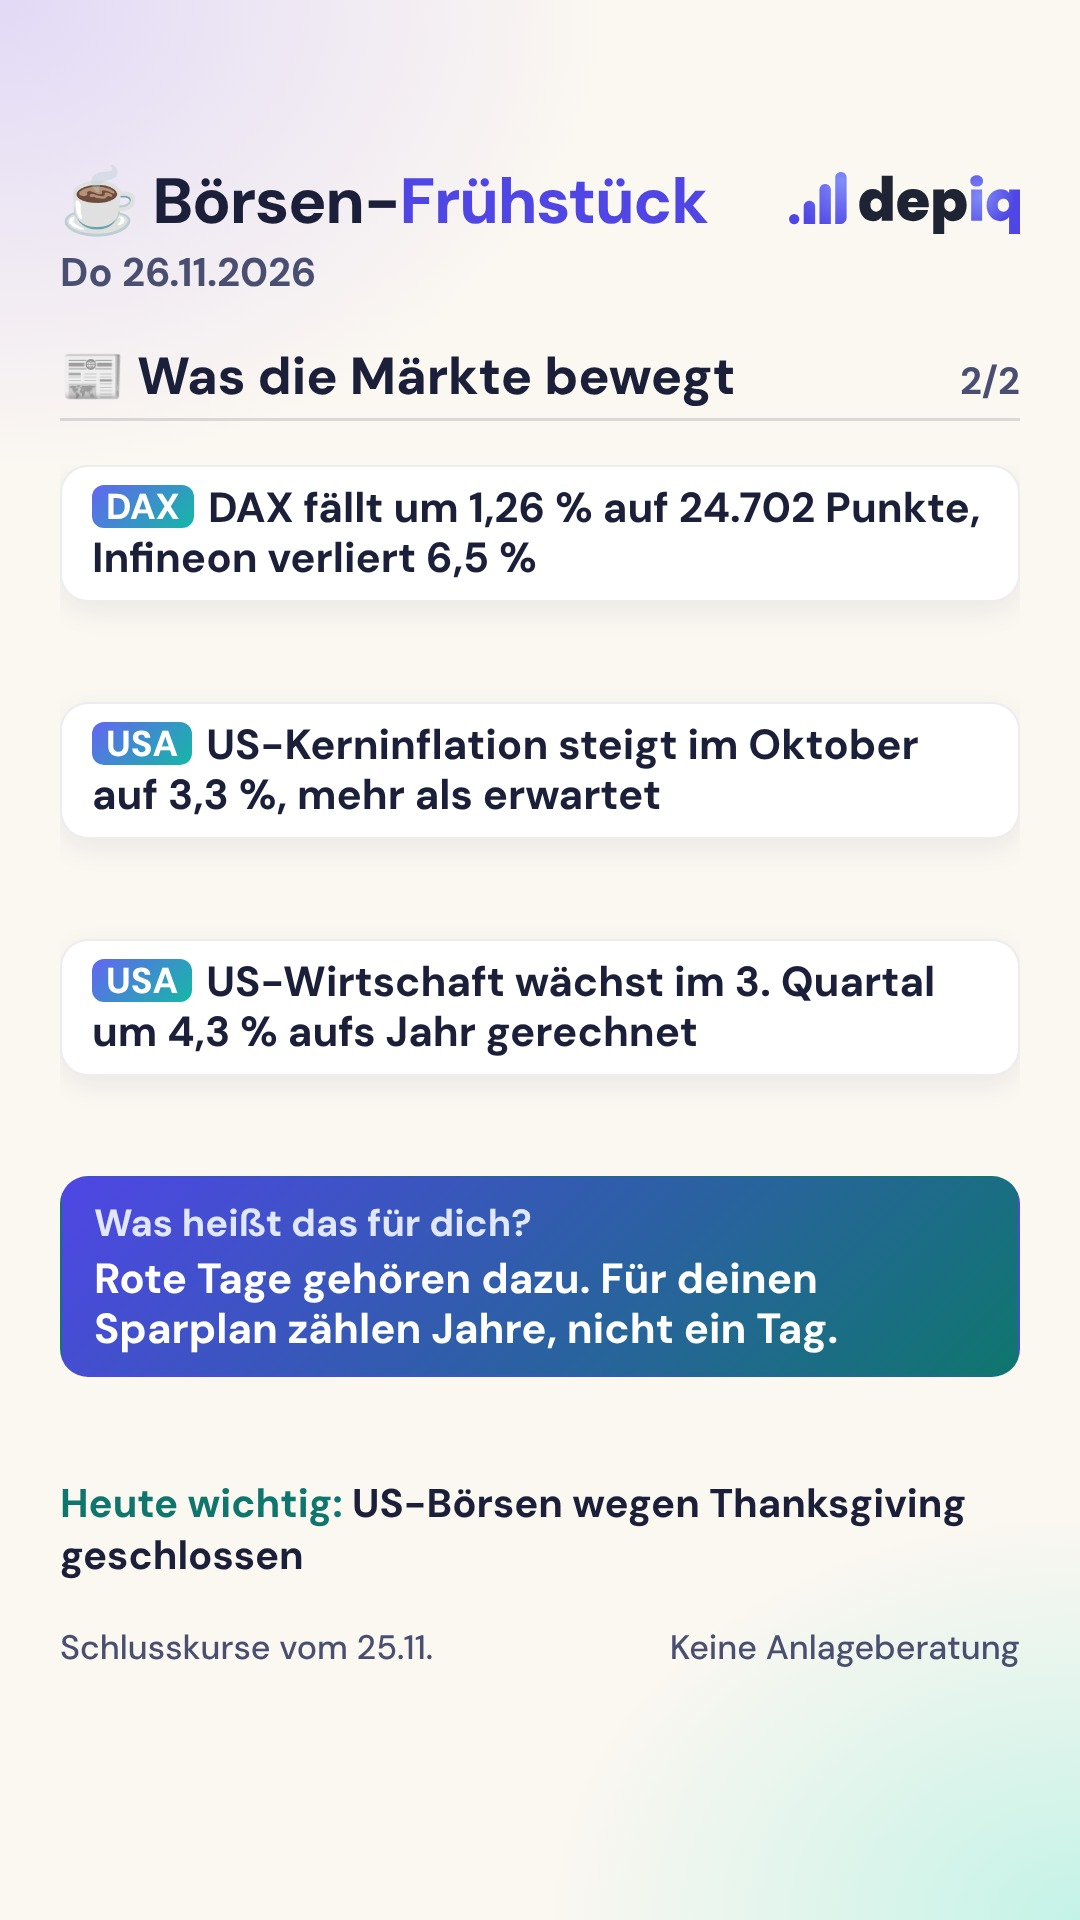
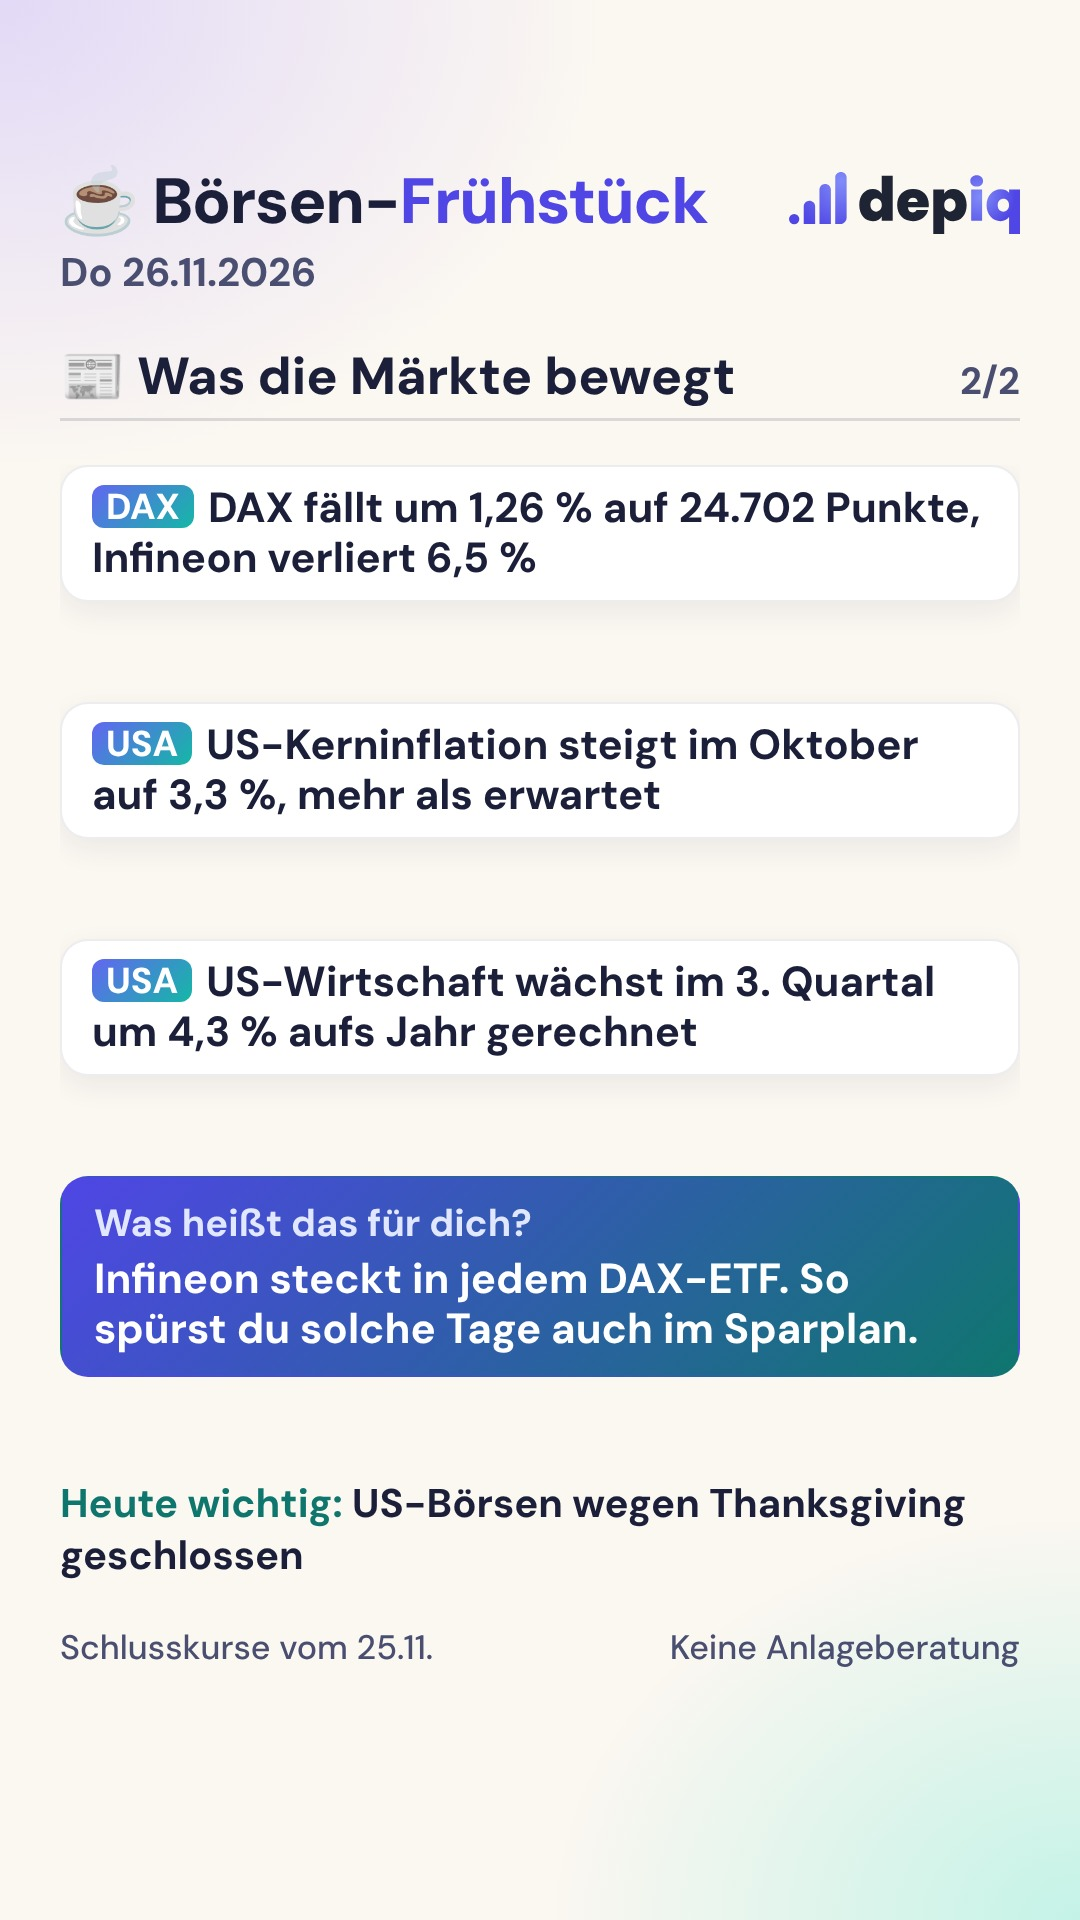
Börsen-Frühstück: Einordnung jeden Tag neu, 26.11. angepasst
Claude-Session: https://claude.ai/code/session_016gPa7wg9XVPBE95pGoqN7e

Changed region(s): [[0.0917, 0.6562, 0.8556, 0.7188]]

diff --git a/boersen/LIESMICH.md b/boersen/LIESMICH.md
@@ -23,6 +23,15 @@ Nur Schlusskurse, nie Zwischenstände aus dem laufenden Handel.
 
 **Design hell (ab 16.11.2026, Jürgen):** In der Tages-JSON `"design": "hell"` setzen. Die Grundvorlage `vorlage/boersen.html` bleibt dunkel, die helle Fassung ist eine Variante.
 
+## „Was heißt das für dich?“ (Feld `einordnung`): jeden Tag neu (Jürgen, 26.11.2026)
+
+Bis 26.11. stand dort fast jeden Tag derselbe Satz („… gehören dazu / ist normal. Für Sparpläne zählt der lange Weg“ bzw. „Hat sich dein Grund geändert oder nur der Kurs?“). Das ist vorbei. Ab sofort gilt:
+1. **Bezug auf eine konkrete News des Tages:** Der Satz greift eine der 3 News (oder einen Indexwert der Karte) auf und sagt in Alltagssprache, wo der Leser das konkret spürt oder was es praktisch bedeutet: im ETF-Sparplan (welcher Index, welche Aktie steckt drin), bei Tagesgeld- oder Kreditzinsen, beim Euro-Dollar-Kurs für US-Aktien, bei Preisen im Alltag, bei der Steuer. Höchstens 80 Zeichen, nur Fakten, keine Prognose, keine Empfehlung.
+2. **Verbotene Standardsätze:** „gehören dazu“, „ist normal“, „ganz normal“, „zählt der lange Weg“, „ändert (sich) nichts“, „ruhig bleiben“, „Grund geändert oder nur der Kurs“. (Bei großer Marktbewegung steht die Warum-Frage im Facebook-Text, nicht in der Einordnung.)
+3. **Keine Wiederholung:** Vor dem Schreiben die `einordnung` der letzten 10 boersen/*.json lesen. Kein Satz und kein Satzanfang (erste 3 Wörter) darf sich wiederholen.
+4. Wechselnde Blickwinkel, z. B.: Was steckt in deinem ETF? · Was heißt das für Zinsen auf dein Konto? · Was bedeutet der Dollar für deine US-Aktien? · Ein Begriff aus der News kurz erklärt · Was kannst du heute in Ruhe prüfen?
+Beispiele: „Infineon steckt in jedem DAX-ETF. So spürst du solche Tage auch im Sparplan.“ · „Steigen US-Zinsen, wird der Dollar oft stärker. US-Aktien zählen dann in Euro mehr.“ (nur mit Beleg) · „Kerninflation heißt: Preise ohne Energie und Essen. Sie zeigt den Grundtrend.“
+
 ## Aufbau: 3 Karten, gut lesbar am Handy
 
 | Karte | Inhalt |
